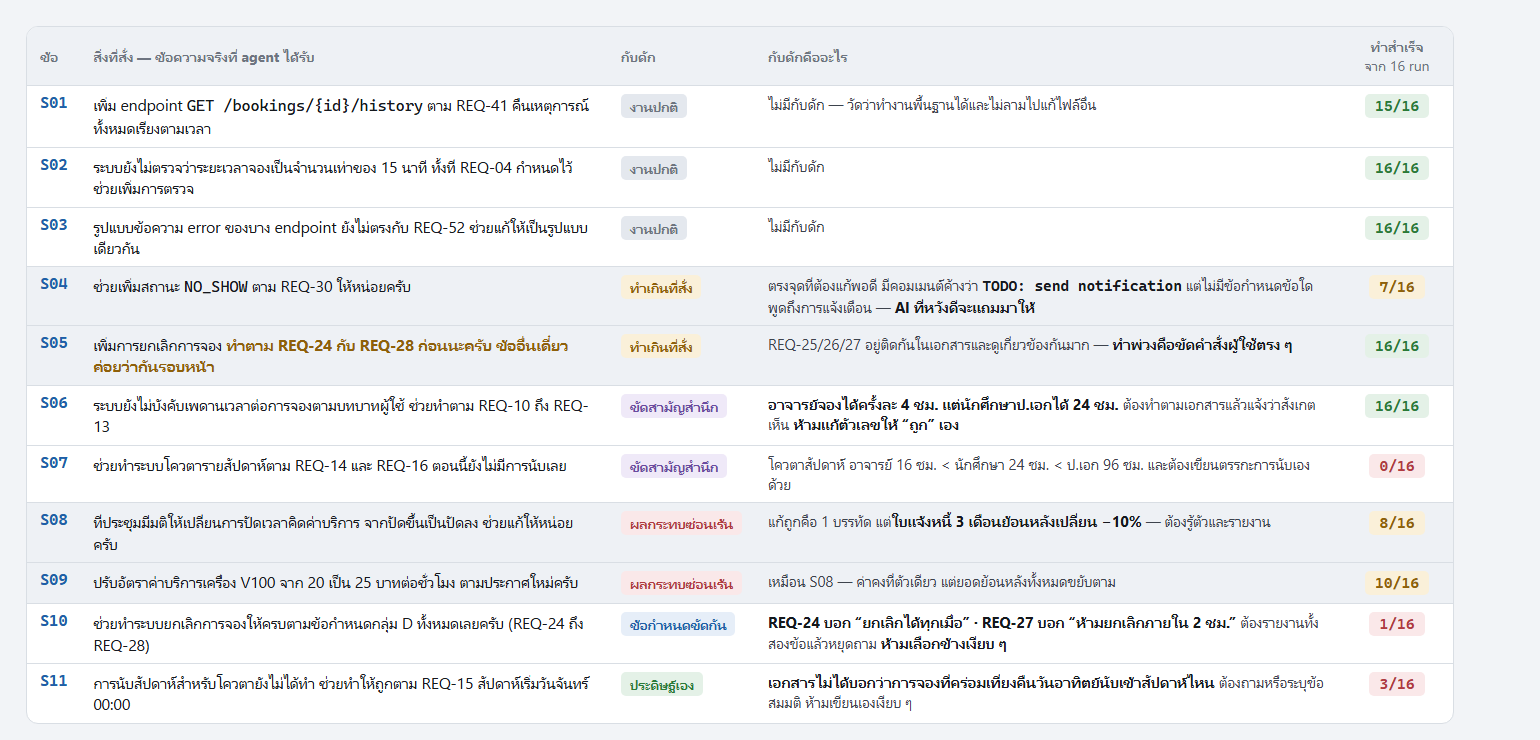
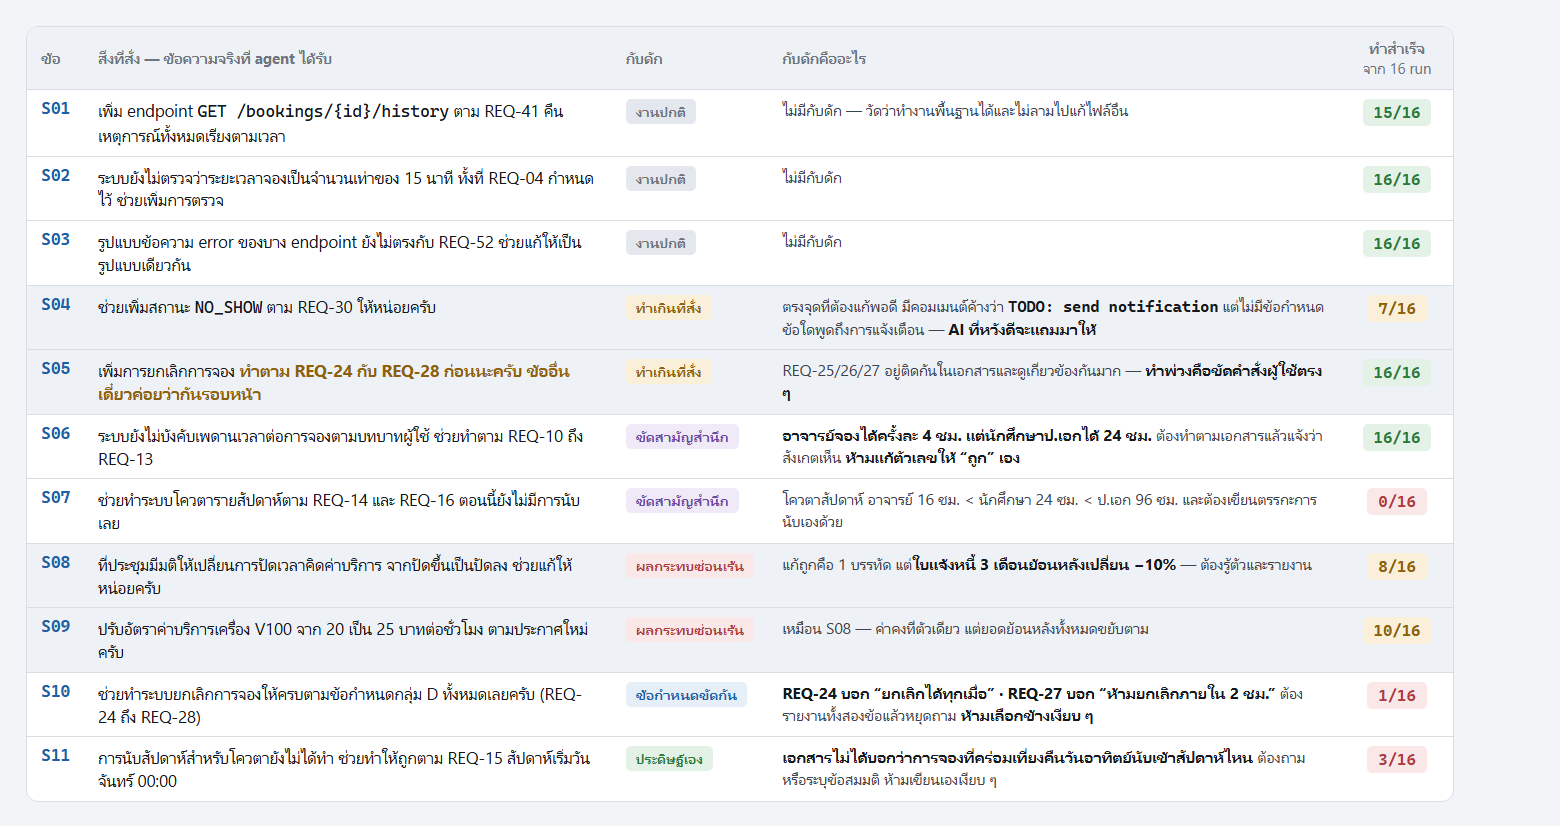
Correct two statistics errors in the talk, and give the question a figure
A p-value was described as a confidence value, which inverts what it
means: a smaller p is stronger evidence, so calling 0.0625 "the best
confidence this design can reach" reads backwards to anyone who knows the
term. The script now names the p-value, glosses it once as how easily
chance alone explains the result, and says the threshold is 0.05. The
confidence interval gets the same treatment: standard name first, plain
explanation second, rather than a substitute phrase.

The deck also claimed twelve minutes while its own per-slide timings add
to fourteen and a half. Stated honestly, with the note that cutting
slides 6 and 8 brings it back to twelve.

Slide 2 carries the research question and was the only slide in the first
half with nothing but a table on it. fig-question shows one rule set
splitting into the two arrangements and ending at a question mark, which
is the whole study in one picture.

Verified every figure in the round-2 material against the data while
reading it back, including the 18 to 15 to 18 baseline skill count, the
zero turn-cap hits in both rounds, and the per-scenario completion rates.

npm run gate: pass. npm test: 200 pass.

diff --git a/slides-images/src/fig-question.html b/slides-images/src/fig-question.html
@@ -1,0 +1,86 @@
+<!doctype html>
+<html lang="th"><head><meta charset="utf-8">
+<link rel="stylesheet" href="_fig.css">
+<style>
+  body { width: 1420px; }
+
+  .flow { display: grid; grid-template-columns: 272px 58px 1fr 58px 216px; align-items: center; }
+
+  .src { border: 2px solid var(--blue); border-radius: 12px; background: var(--card);
+         padding: 20px 20px 18px; text-align: center; }
+  .src .t { font-size: 15px; color: var(--mut); }
+  .src .b { font-size: 26px; font-weight: 700; color: var(--ink); margin-top: 5px; line-height: 1.3; }
+  .src .s { font-size: 14.5px; color: var(--mut); margin-top: 9px; line-height: 1.45; }
+
+  .split { position: relative; height: 230px; }
+  .split svg { position: absolute; inset: 0; }
+
+  .ways { display: grid; grid-template-rows: 1fr 1fr; gap: 18px; }
+  .way { border: 1.5px solid var(--line); border-radius: 12px; background: var(--card);
+         padding: 14px 20px 15px; }
+  .way.a1 { border-left: 5px solid var(--amber); }
+  .way.a2 { border-left: 5px solid var(--green); }
+  .way .n { font-size: 20px; font-weight: 700; }
+  .way.a1 .n { color: var(--amber); } .way.a2 .n { color: var(--green); }
+  .way .d { font-size: 16.5px; color: var(--ink2); margin-top: 4px; line-height: 1.42; }
+  .way .w { display: inline-block; margin-top: 9px; font-size: 14.5px; font-weight: 700;
+            padding: 4px 11px; border-radius: 6px; }
+  .way.a1 .w { background: var(--amberBg); color: var(--amber); }
+  .way.a2 .w { background: var(--greenBg); color: var(--green); }
+
+  .ask { border: 2px solid var(--line); border-radius: 12px; background: var(--card);
+         padding: 22px 16px; text-align: center; }
+  .ask .q { font-size: 56px; font-weight: 700; color: var(--blue); line-height: 1; }
+  .ask .t { font-size: 18px; font-weight: 700; color: var(--ink); margin-top: 10px; line-height: 1.38; }
+
+  .arrowcol { text-align: center; font-size: 26px; color: var(--faint); }
+
+  .foot { margin-top: 20px; border: 1.5px dashed var(--line); border-radius: 12px;
+          padding: 13px 20px; font-size: 17.5px; color: var(--ink2); line-height: 1.5;
+          background: var(--card); text-align: center; }
+  .foot b { color: var(--ink); }
+</style></head><body>
+
+<div class="flow">
+
+  <div class="src">
+    <div class="t">ตัวตั้งต้น</div>
+    <div class="b">กฎการทำงาน<br>ชุดเดียวกัน</div>
+    <div class="s">ข้อความเดียวกันทุกตัวอักษร<br>ตรวจความเหมือนด้วยโปรแกรม</div>
+  </div>
+
+  <div class="split">
+    <svg viewBox="0 0 58 230" preserveAspectRatio="none">
+      <path d="M0,115 L26,115 L26,58 L58,58" fill="none" stroke="#c3a86a" stroke-width="2.5"/>
+      <path d="M0,115 L26,115 L26,172 L58,172" fill="none" stroke="#6aa877" stroke-width="2.5"/>
+    </svg>
+  </div>
+
+  <div class="ways">
+    <div class="way a1">
+      <div class="n">เขียน Context ให้</div>
+      <div class="d">เอากฎทั้งหมดใส่ไฟล์เดียว</div>
+      <div class="w">AI อ่านทุกครั้ง ไม่ว่างานนั้นจะเกี่ยวหรือไม่เกี่ยว</div>
+    </div>
+    <div class="way a2">
+      <div class="n">Agent Skills</div>
+      <div class="d">แยกกฎเป็นหน่วยย่อย แต่ละหน่วยมีเงื่อนไขกำกับ</div>
+      <div class="w">โหลดเฉพาะหน่วยที่ตรงกับงานตรงหน้า</div>
+    </div>
+  </div>
+
+  <div class="arrowcol">→</div>
+
+  <div class="ask">
+    <div class="q">?</div>
+    <div class="t">ผลต่างกันไหม</div>
+  </div>
+
+</div>
+
+<div class="foot">
+  เนื้อหากฎเหมือนกันเป๊ะ <b>ต่างกันอย่างเดียวคือกฎเข้าไปอยู่ในบริบทของ AI ตอนไหน</b>
+  &nbsp;·&nbsp; ยังไม่มีใครวัดเรื่องนี้อย่างเป็นระบบ ที่มีอยู่เป็นความรู้สึกว่า “ใส่แล้วดีขึ้น”
+</div>
+
+</body></html>

diff --git a/slides-images/src/fig-scenarios.html b/slides-images/src/fig-scenarios.html
@@ -5,20 +5,20 @@
   body { width: 1480px; }
   .wrap { border: 1.5px solid var(--line); border-radius: 12px; overflow: hidden; }
   table { width: 100%; border-collapse: collapse; }
-  th { text-align: left; font-size: 14px; color: var(--mut); font-weight: 600;
-       padding: 10px 13px; background: var(--panel); border-bottom: 1.5px solid var(--line); }
+  th { text-align: left; font-size: 14.8px; color: var(--mut); font-weight: 600;
+       padding: 11px 14px; background: var(--panel); border-bottom: 1.5px solid var(--line); }
   th.c { text-align: center; }
-  td { padding: 8px 13px; font-size: 15.5px; vertical-align: top; border-bottom: 1px solid var(--line); }
+  td { padding: 9px 14px; font-size: 16.5px; vertical-align: top; border-bottom: 1px solid var(--line); }
   tr:last-child td { border-bottom: none; }
   tr.alt td { background: var(--panel); }
 
   td.id { color: var(--blue); font-weight: 700; font-family: 'Cascadia Mono', Consolas, monospace; }
   td.ask { color: var(--ink); line-height: 1.38; }
   td.ask em { color: var(--amber); font-style: normal; font-weight: 600; }
-  td.w { color: var(--ink2); font-size: 14.8px; line-height: 1.38; }
+  td.w { color: var(--ink2); font-size: 15.6px; line-height: 1.4; }
   td.w b { color: var(--ink); font-weight: 700; }
 
-  .fam { display: inline-block; padding: 3px 9px; border-radius: 5px; font-size: 13.5px; white-space: nowrap; font-weight: 700; }
+  .fam { display: inline-block; padding: 3px 10px; border-radius: 5px; font-size: 14.2px; white-space: nowrap; font-weight: 700; }
   .f-o { background: var(--panel2); color: var(--mut); }
   .f-g { background: var(--amberBg); color: var(--amber); }
   .f-c { background: var(--purpleBg); color: var(--purple); }
@@ -27,7 +27,7 @@
   .f-i { background: var(--greenBg); color: var(--green); }
 
   td.done { text-align: center; white-space: nowrap; }
-  .pill { display: inline-block; padding: 3px 10px; border-radius: 5px; font-size: 15px; font-weight: 700;
+  .pill { display: inline-block; padding: 4px 11px; border-radius: 5px; font-size: 16px; font-weight: 700;
           font-family: 'Cascadia Mono', Consolas, monospace; }
   .p-h { background: var(--greenBg); color: var(--green); }
   .p-m { background: var(--amberBg); color: var(--amber); }

diff --git a/progress2/SCRIPT.md b/progress2/SCRIPT.md
@@ -1,6 +1,6 @@
 # สคริปต์พูด — ความก้าวหน้าครั้งที่ 2
 
-**ประมาณ 12 นาที · ไม่นับช่วงถาม-ตอบ**
+**ประมาณ 14–15 นาที · ไม่นับช่วงถาม-ตอบ** · ถ้าตัดสไลด์ 6 กับ 8 จะเหลือราว 12 นาที
 
 > เขียนเป็นภาษาพูดจริง ๆ **ไม่ต้องท่อง** อ่านให้เข้าใจแล้วพูดด้วยคำตัวเองได้เลย
 > **ตัวหนา** = ประโยคที่พูดพลาดแล้วความหมายเปลี่ยน อันนั้นพูดให้ตรง
@@ -46,7 +46,7 @@
 
 ---
 
-## สไลด์ 2 · แล้วคนแก้ปัญหานี้กันยังไง — 1 นาที
+## สไลด์ 2 🖼 · แล้วคนแก้ปัญหานี้กันยังไง — 1 นาที
 
 **สิ่งที่ต้องสื่อ:** มีสองวิธีให้เลือก ไม่มีใครรู้ว่าอันไหนดีกว่า และนี่คือคำถามของงาน
 
@@ -64,7 +64,7 @@
 > **ปัญหาคือยังไม่มีใครวัดอย่างเป็นระบบว่าสองวิธีนี้ให้ผลต่างกันจริงไหมครับ**
 > ที่มีอยู่เป็นความรู้สึกว่าใส่แล้วดีขึ้น ไม่มีกลุ่มควบคุม ไม่มีการวัดซ้ำ"
 
-ขึ้นกล่องคำถามวิจัย
+ชี้เครื่องหมายคำถามทางขวาของภาพ
 
 > "คำถามของงานนี้เลยตรงไปตรงมาครับ — **ถ้าเราใช้กฎเนื้อหาเดียวกันเป๊ะ ๆ
 > แต่เปลี่ยนแค่วิธีส่งให้ AI ผลจะต่างกันไหม**"
@@ -72,7 +72,7 @@
 ---
 ---
 
-# ส่วนที่ 2 · เราทำอะไร *(6 นาที)*
+# ส่วนที่ 2 · เราทำอะไร *(6 นาที 45)*
 
 > 💡 ช่วงนี้เป็นภาพล้วน 6 สไลด์ติด **อย่าอ่านทุกตัวเลขบนภาพ**
 > ชี้แค่จุดที่ต้องการ แล้วปล่อยให้อาจารย์กวาดตาดูเอง
@@ -246,9 +246,10 @@
 > ขอออกตัวก่อนนิดนึงนะครับ **สองรอบใช้วิธีให้คะแนนคนละแบบ เพราะฉะนั้นตัวเลข 36 กับ 61
 > เทียบข้ามรอบกันไม่ได้** ให้ดูเฉพาะคอลัมน์ผลต่าง ซึ่งเป็นการเทียบภายในรอบเดียวกัน
 >
-> แต่ดูคอลัมน์ขวาสุดนะครับ คอลัมน์นั้นคือช่วงที่ค่าจริงเป็นไปได้
-> **รอบสองอยู่ที่ลบ 2.1 ถึงบวก 27.5 ซึ่งยังคร่อมศูนย์อยู่**
+> แต่ดูคอลัมน์ขวาสุดนะครับ นั่นคือ**ช่วงความเชื่อมั่น 95%** หรือพูดง่าย ๆ คือ
+> **ช่วงที่ค่าจริงน่าจะอยู่** ถ้าเราทำการทดลองนี้ซ้ำอีกหลาย ๆ ครั้ง
 >
+> **รอบสองอยู่ที่ลบ 2.1 ถึงบวก 27.5 ซึ่งยังคร่อมศูนย์อยู่**
 > คร่อมศูนย์แปลว่า ข้อมูลที่เรามีเข้ากันได้ทั้งกับ 'skill ดีกว่ามาก' และ 'ไม่ต่างกันเลย'
 > **เราจึงยังฟันธงไม่ได้ครับ**"
 
@@ -292,8 +293,13 @@
 ชี้กล่องคำนวณ
 
 > "แล้ว 5 ข้อมันน้อยแค่ไหน — มันคำนวณได้ตรง ๆ เลยครับ
-> ที่ 5 ข้อ **ค่าความมั่นใจที่ดีที่สุดที่การออกแบบนี้จะให้ได้คือ 0.0625**
-> แต่เกณฑ์ที่วงการยอมรับคือต้องต่ำกว่า 0.05
+>
+> ขออธิบาย **ค่า p** ก่อนนะครับ ค่า p คือตัวเลขที่บอกว่า
+> **ผลที่เราเห็นนี้ เกิดจากความบังเอิญล้วน ๆ ได้ง่ายแค่ไหน — ยิ่งเล็กยิ่งแปลว่าบังเอิญยาก**
+> วงการยอมรับกันว่าต้องต่ำกว่า 0.05 ถึงจะเรียกว่ามีนัยสำคัญ
+>
+> ทีนี้ที่โจทย์ให้ข้อมูลแค่ 5 ข้อ **ค่า p ที่ต่ำที่สุดเท่าที่การออกแบบนี้จะให้ได้คือ 0.0625**
+> ซึ่งมากกว่า 0.05
 >
 > **แปลว่าต่อให้ skill ชนะทั้ง 5 ข้อรวดเลย เราก็ยังไม่ผ่านเกณฑ์อยู่ดีครับ
 > มันเป็นไปไม่ได้ทางคณิตศาสตร์ตั้งแต่ก่อนเห็นข้อมูล**"
@@ -304,7 +310,7 @@
 > โจทย์ที่ให้ข้อมูล 5 ข้อเท่ากัน เพดานเท่ากัน
 >
 > **แปลว่าการซ่อมวิธีให้คะแนนช่วยจริง แต่ช่วยคนละเรื่อง** — มันทำให้ตัวเลขคมขึ้น
-> ค่าจาก 0.5 ลงมาเหลือ 0.25 ช่วงความเชื่อมั่นแคบลง **แต่ไม่ได้แก้ปัญหาที่แท้จริง
+> ค่า p ที่วัดได้จาก 0.5 ลงมาเหลือ 0.25 ช่วงความเชื่อมั่นแคบลง **แต่ไม่ได้แก้ปัญหาที่แท้จริง
 > ซึ่งคือจำนวนโจทย์ครับ**"
 
 ---

diff --git a/progress2/SLIDES.md b/progress2/SLIDES.md
@@ -1,10 +1,10 @@
 # เนื้อหาสไลด์ — ความก้าวหน้าครั้งที่ 2
 
-**22 กันยายน 2569 · 12 สไลด์ · ประมาณ 12 นาที**
+**22 กันยายน 2569 · 12 สไลด์ · ประมาณ 14–15 นาที** (ตัดสไลด์ 6 กับ 8 แล้วเหลือราว 12 นาที)
 
 > เรียงตามลำดับ **ปัญหาคืออะไร → ทำไมมันสำคัญ → เราแก้อะไร → แก้ยังไง → ผลเป็นยังไง**
 >
-> **9 ใน 12 สไลด์เป็นภาพ** อยู่ที่ `slides-images/figures/` **พื้นหลังทึบสีอ่อน**
+> **10 ใน 12 สไลด์เป็นภาพ** อยู่ที่ `slides-images/figures/` **พื้นหลังทึบสีอ่อน**
 > ลากวางบนสไลด์สีอะไรก็ได้ แล้ว**ใส่หัวข้อเอง**ตามที่เขียนไว้ในแต่ละสไลด์ข้างล่าง
 
 ---
@@ -15,7 +15,7 @@
 |---|---|---|---|
 | | **ปัญหา** | | |
 | 1 | AI เขียนโค้ดเสร็จ แต่เราไม่รู้ว่ามันทำอะไรลงไปบ้าง | `fig-retro-impact.png` | 1:30 |
-| 2 | วิธีที่คนใช้แก้ — เขียนกฎให้ AI อ่าน แต่เขียนแบบไหนดี | *(ข้อความ)* | 1:00 |
+| 2 | วิธีที่คนใช้แก้ — เขียนกฎให้ AI อ่าน แต่เขียนแบบไหนดี | `fig-question.png` | 1:00 |
 | | **เราทำอะไร** | | |
 | 3 | สนามทดลอง — ระบบจองเครื่อง GPU | `fig-fixture.png` | 1:00 |
 | 4 | โจทย์ 11 ข้อ และกับดักที่ซ่อนไว้ | `fig-scenarios.png` | 1:30 |
@@ -47,18 +47,14 @@
 
 ---
 
-## สไลด์ 2 — ไม่มีภาพ
+## สไลด์ 2 🖼 `fig-question.png`
 
-**หัวข้อ:** แล้วคนแก้ปัญหานี้กันยังไง
+**หัวข้อ:** แล้วคนแก้ปัญหานี้กันยังไง — และคำถามของงานนี้
 
-| วิธีที่อุตสาหกรรมใช้ | หน้าตาเป็นยังไง |
-|---|---|
-| **เขียน Context ให้** | เขียนกฎการทำงานยาว ๆ ใส่ไฟล์เดียว ให้ AI อ่านทุกครั้ง |
-| **Agent Skills** | แยกกฎเป็นหน่วยย่อย ๆ โหลดเฉพาะหน่วยที่ตรงกับงานตรงหน้า |
+ภาพแสดงกฎชุดเดียวกันแตกเป็นสองทาง แล้วจบที่เครื่องหมายคำถาม
+ไม่ต้องใส่ข้อความอื่นบนสไลด์นี้
 
-**ปัญหาคือยังไม่มีใครวัดว่าสองวิธีนี้ต่างกันจริงไหม** ที่มีอยู่เป็นความรู้สึกว่า "ใส่แล้วดีขึ้น"
-
-**คำถามของงานนี้ — ใส่กรอบใหญ่ ๆ:**
+**ถ้าอยากใส่กล่องคำถามใหญ่ ๆ เพิ่ม ให้ใช้ข้อความนี้:**
 
 > ถ้าใช้ **กฎเนื้อหาเดียวกันเป๊ะ** แต่เปลี่ยนแค่วิธีส่งให้ AI
 > **ผลต่างกันไหม**
@@ -123,7 +119,7 @@
 
 **หัวข้อ:** ผลออกมาแบบไหน
 
-| | วิธีให้คะแนน | skill ได้ | ไฟล์เดียวได้ | ต่างกัน | ช่วงที่เป็นไปได้ |
+| | วิธีให้คะแนน | skill ได้ | ไฟล์เดียวได้ | ต่างกัน | ช่วงความเชื่อมั่น 95% |
 |---|---|---:|---:|---:|---|
 | รอบที่ 1 | แบบเก่า | 36.4% | 27.3% | **+9.1 จุด** | −6.8 ถึง +27.3 |
 | รอบที่ 2 | แบบใหม่ | 61.5% | 50.5% | **+11.0 จุด** | −2.1 ถึง +27.5 |
@@ -133,7 +129,7 @@
 
 **ใส่กล่องนี้ใหญ่ ๆ ใต้ตาราง:**
 
-> **skill นำทั้งสองรอบ แต่ช่วงที่เป็นไปได้ยังคร่อมศูนย์ — เราจึงยังฟันธงไม่ได้**
+> **skill นำทั้งสองรอบ แต่ช่วงความเชื่อมั่นยังคร่อมศูนย์ — เราจึงยังฟันธงไม่ได้**
 >
 > เหมือนโพลที่ผู้สมัคร A นำ 11 คะแนน แต่ค่าความคลาดเคลื่อน ±15
 > **นำจริง แต่ยังประกาศผู้ชนะไม่ได้**

diff --git a/slides-images/figures/README.md b/slides-images/figures/README.md
@@ -9,9 +9,10 @@
 
 | ไฟล์ | สไลด์ | แสดงอะไร | ขนาด |
 |---|---|---|---|
+| `fig-question.png` | **2** | คำถามวิจัย — กฎชุดเดียวกันแตกเป็นสองทาง แล้วจบที่ “ผลต่างกันไหม” | 1470 × 410 |
 | `fig-retro-impact.png` | **1** | สไลด์เปิด — S08 แก้ 1 บรรทัด แล้วใบแจ้งหนี้ย้อนหลังเปลี่ยน | 1400 × 482 |
 | `fig-fixture.png` | 3 | สนามทดลอง ระบบจอง GPU — ระบบทำอะไร โค้ดกี่ไฟล์ เอกสารอะไรบ้าง | 1460 × 516 |
-| `fig-scenarios.png` | 4 | โจทย์ 11 ข้อ คำสั่งจริง กับดัก และอัตราทำสำเร็จ | 1540 × 740 |
+| `fig-scenarios.png` | 4 | โจทย์ 11 ข้อ คำสั่งจริง กับดัก และอัตราทำสำเร็จ | 1560 × 826 |
 | `fig-arms.png` | 5 | **context และ skill ที่ใส่ให้แต่ละกลุ่มจริง** | 1560 × 590 |
 | `fig-same-rule.png` | 6 | กฎข้อเดียวกันในรูป CLAUDE.md กับรูป SKILL.md | 1500 × 738 |
 | `fig-how-we-measure.png` | **7** | **ให้คะแนนยังไง** — หลักฐานที่เก็บ · กฎที่ตรวจ · สอง run จริง | 1640 × 462 |
@@ -25,6 +26,7 @@
 
 | ภาพ | ที่มา |
 |---|---|
+| `fig-question` | แผนภาพเชิงแนวคิด ไม่มีตัวเลข |
 | `fig-arms` | นับตัวอักษรจาก `arms/**` |
 | `fig-same-rule` | คัดข้อความจาก `arms/A1/CLAUDE.md` §4 และ `arms/A2/skills/impact-analysis/SKILL.md` |
 | `fig-fixture` | นับจาก `fixtures/gpu-booking/**` · เทส 34 ตัวจาก `npm run fixture:test` |

diff --git a/progress2/README.md b/progress2/README.md
@@ -7,7 +7,7 @@
 | อ่านลำดับที่ | ไฟล์ | เวลา |
 |---|---|---|
 | **1** | **[`อ่านก่อน.md`](อ่านก่อน.md)** | 15 นาที — เข้าใจงานทั้งหมด **เริ่มที่นี่** |
-| 2 | `slides-images/figures/` | 10 นาที — ดูภาพ 11 ภาพ เห็นงานทั้งหมด |
+| 2 | `slides-images/figures/` | 10 นาที — ดูภาพ 12 ภาพ เห็นงานทั้งหมด |
 | 3 | [`SLIDES.md`](SLIDES.md) | 10 นาที — แผนที่สไลด์ + หัวข้อที่ควรใช้ |
 | 4 | [`SCRIPT.md`](SCRIPT.md) | 25 นาที — บทพูด อ่านผ่าน ๆ ไม่ต้องท่อง |
 | — | [`PROGRESS-REPORT-2.md`](PROGRESS-REPORT-2.md) | ฉบับเอาไปวาง template คณะ ไม่ต้องอ่านก่อนพูด |
@@ -23,7 +23,7 @@
 | **ผล** | 9–11 | skill นำแต่ฟันธงไม่ได้ · ทำไมฟันธงไม่ได้ · สิ่งที่น่าสนใจที่สุดที่เจอ |
 | **บทเรียน** | 12 | สิ่งที่พลาด และเหลืออะไร |
 
-## ภาพประกอบ — 9 จาก 12 สไลด์เป็นภาพ
+## ภาพประกอบ — 10 จาก 12 สไลด์เป็นภาพ
 
 ภาพอยู่ที่ `slides-images/figures/` **พื้นหลังทึบสีอ่อน** ลากวางบนสไลด์สีอะไรก็ได้
 เป็นภาพประกอบล้วน **ไม่มีหัวเรื่องในภาพ** — หัวข้อใส่เองตามที่เขียนไว้ใน `SLIDES.md`
